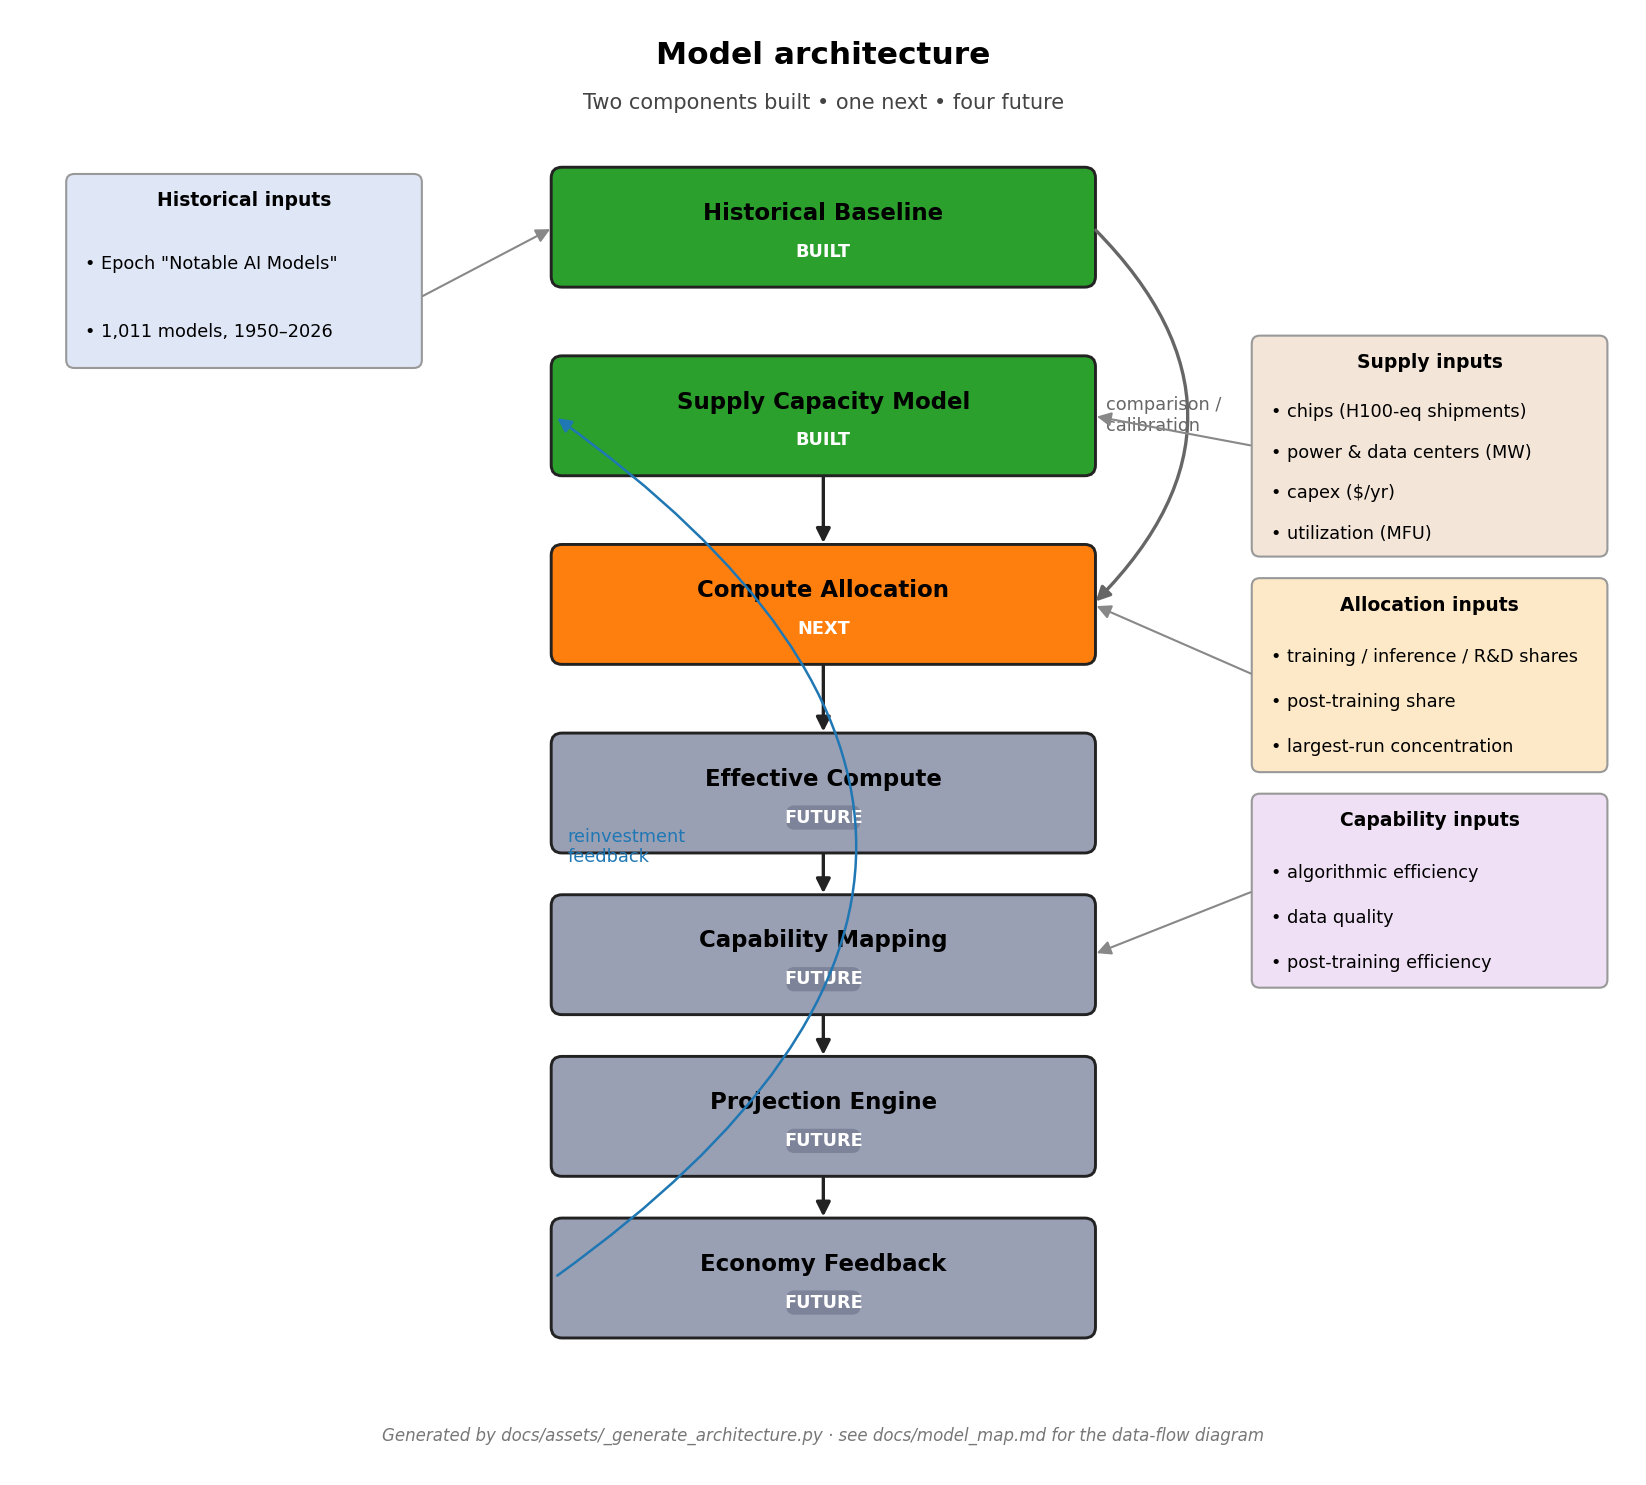
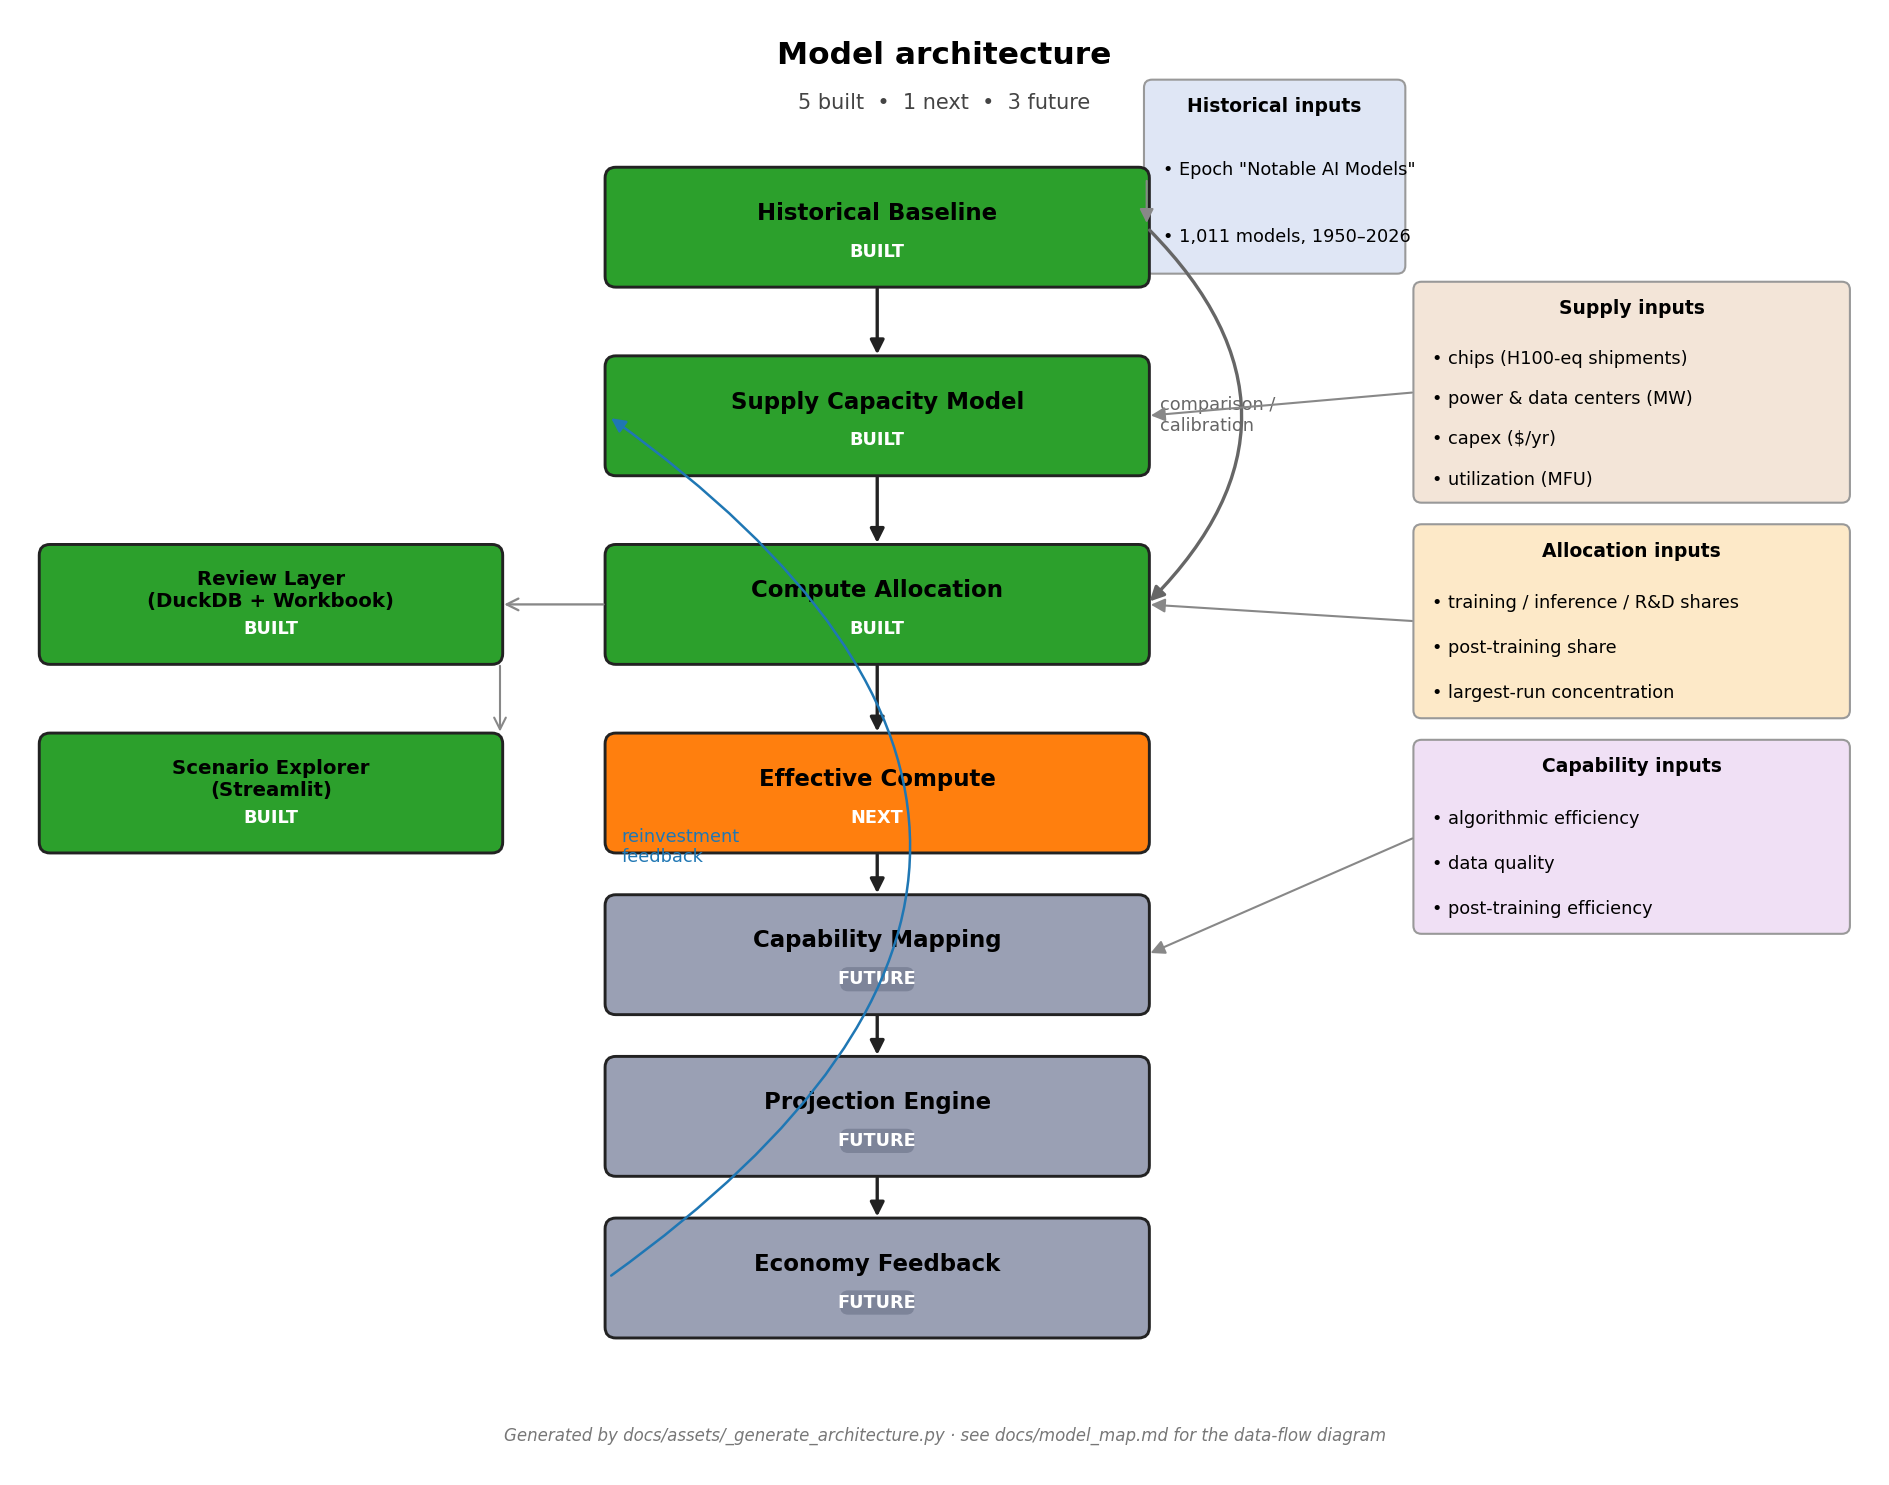
Docs polish 1/3: regenerate architecture PNG with current state
Architecture diagram was 2 model-versions stale: showed Historical +
Supply as built and Allocation as NEXT. Reality: Historical, Supply,
Allocation, Review Layer, and Scenario Explorer are all BUILT;
Effective Compute is now NEXT.

Changes to docs/assets/_generate_architecture.py:
- Component status flags updated (Allocation BUILT, Effective
  Compute NEXT).
- Two new side-branch boxes (Review Layer, Scenario Explorer)
  hanging off the modeling stack at allocation height. Draws an
  arrow from Allocation to Review and from Review to Scenario
  Explorer to indicate the read-only consumption flow.
- Status counts in the subtitle ("N built • N next • N future")
  now derive from the COMPONENTS + SIDE_BRANCHES lists rather
  than being hard-coded — adding a component just requires
  editing the list.
- Single STATUS_FACE / STATUS_PILL_COLOR maps replace the
  hand-coded color args at each call site.
- Slightly wider canvas (xlim 13.4) to accommodate the side
  branches without overlap.

Verify: open docs/assets/model_architecture.png — now shows 5
built / 1 next / 3 future, matching the current state.

README reorganization + MkDocs Material in commits 2/3 and 3/3.

diff --git a/docs/assets/_generate_architecture.py b/docs/assets/_generate_architecture.py
@@ -4,9 +4,11 @@ Standalone matplotlib script. Run with:
 
     uv run python docs/assets/_generate_architecture.py
 
-Produces a polished architecture diagram showing the 7-component model
-stack (2 built, 1 next, 4 future), the major input categories on the
-side, and the calibration arrow from the historical baseline.
+Produces a polished architecture diagram showing the modeling stack
+(7 components — historical through economy feedback) plus two
+observability layers (review + scenario explorer) hanging off as side
+branches. Status pills are kept up to date here; if you add or build a
+component, edit the COMPONENTS list below and rerun.
 """
 from __future__ import annotations
 
@@ -24,33 +26,36 @@ HIST_BG = "#dfe6f5"
 SUPPLY_INPUT_BG = "#f3e5d8"
 ALLOC_INPUT_BG = "#fde9c8"
 CAP_INPUT_BG = "#f0e0f5"
+REVIEW_BG = "#e8f0fa"
+
+STATUS_PILL_COLOR = {"BUILT": "#2ca02c", "NEXT": "#ff7f0e", "FUTURE": "#7d8499"}
+STATUS_FACE = {"BUILT": BUILT, "NEXT": NEXT, "FUTURE": FUTURE}
 
 
-def _box(ax, x, y, w, h, label, color, status_label, status_color, fontsize=11):
+def _box(ax, x, y, w, h, label, status, fontsize=11):
     """Rounded rectangle with a coloured status pill."""
     box = FancyBboxPatch(
         (x, y), w, h,
         boxstyle="round,pad=0.02,rounding_size=0.08",
         linewidth=1.4,
         edgecolor="#222",
-        facecolor=color,
+        facecolor=STATUS_FACE[status],
         zorder=2,
     )
     ax.add_patch(box)
     ax.text(x + w / 2, y + h * 0.62, label,
             ha="center", va="center", fontsize=fontsize, fontweight="bold")
-    # status pill
     pill_w, pill_h = 0.55, 0.18
     pill_x, pill_y = x + w / 2 - pill_w / 2, y + h * 0.18
     pill = FancyBboxPatch(
         (pill_x, pill_y), pill_w, pill_h,
         boxstyle="round,pad=0.0,rounding_size=0.06",
         linewidth=0,
-        facecolor=status_color,
+        facecolor=STATUS_PILL_COLOR[status],
         zorder=3,
     )
     ax.add_patch(pill)
-    ax.text(pill_x + pill_w / 2, pill_y + pill_h / 2, status_label,
+    ax.text(pill_x + pill_w / 2, pill_y + pill_h / 2, status,
             ha="center", va="center", fontsize=8.5, color="white", fontweight="bold")
 
 
@@ -70,13 +75,12 @@ def _arrow(ax, p1, p2, label=None, style="-|>", curve=None, color="#222", linewi
         ax.text(mx + 0.1, my, label, fontsize=8.5, color=color, ha="left", va="center")
 
 
-def _input_panel(ax, x, y, w, h, title, items, bg):
-    """A side panel listing input categories for one component."""
+def _input_panel(ax, x, y, w, h, title, items, bg, *, edge="#999"):
     panel = FancyBboxPatch(
         (x, y), w, h,
         boxstyle="round,pad=0.02,rounding_size=0.06",
         linewidth=1.0,
-        edgecolor="#999",
+        edgecolor=edge,
         facecolor=bg,
         zorder=1,
     )
@@ -89,111 +93,142 @@ def _input_panel(ax, x, y, w, h, title, items, bg):
                 ha="left", va="center", fontsize=8.5)
 
 
+# Modeling stack: (label, y_position, status). Edit here when status changes.
+COMPONENTS = [
+    ("Historical Baseline",     8.6, "BUILT"),
+    ("Supply Capacity Model",   7.2, "BUILT"),
+    ("Compute Allocation",      5.8, "BUILT"),
+    ("Effective Compute",       4.4, "NEXT"),
+    ("Capability Mapping",      3.2, "FUTURE"),
+    ("Projection Engine",       2.0, "FUTURE"),
+    ("Economy Feedback",        0.8, "FUTURE"),
+]
+
+# Observability side branches: (label, y_position, status).
+SIDE_BRANCHES = [
+    ("Review Layer\n(DuckDB + Workbook)",    5.8, "BUILT"),
+    ("Scenario Explorer\n(Streamlit)",       4.4, "BUILT"),
+]
+
+
 def main() -> None:
-    fig, ax = plt.subplots(figsize=(12, 10))
-    ax.set_xlim(0, 12)
+    fig, ax = plt.subplots(figsize=(13, 10))
+    ax.set_xlim(-0.4, 13.4)
     ax.set_ylim(-0.2, 10.6)
     ax.set_aspect("equal")
     ax.axis("off")
 
-    # ---- Component column (center) ----
     comp_x, comp_w, comp_h = 4.0, 4.0, 0.85
-    spacings = [
-        ("Historical Baseline",         8.6, BUILT,  "BUILT",  "#2ca02c"),
-        ("Supply Capacity Model",       7.2, BUILT,  "BUILT",  "#2ca02c"),
-        ("Compute Allocation",          5.8, NEXT,   "NEXT",   "#ff7f0e"),
-        ("Effective Compute",           4.4, FUTURE, "FUTURE", "#7d8499"),
-        ("Capability Mapping",          3.2, FUTURE, "FUTURE", "#7d8499"),
-        ("Projection Engine",           2.0, FUTURE, "FUTURE", "#7d8499"),
-        ("Economy Feedback",            0.8, FUTURE, "FUTURE", "#7d8499"),
-    ]
 
-    for label, y, color, status_label, status_color in spacings:
-        _box(ax, comp_x, y, comp_w, comp_h, label, color, status_label, status_color)
+    # --- main modeling stack -----------------------------------------
+    for label, y, status in COMPONENTS:
+        _box(ax, comp_x, y, comp_w, comp_h, label, status)
 
-    # Vertical down-arrows between consecutive components (skip historical → supply; that's a side arrow)
-    arrow_pairs = [
-        (7.2, 5.8),  # supply → allocation
-        (5.8, 4.4),  # allocation → effective
-        (4.4, 3.2),  # effective → capability
-        (3.2, 2.0),  # capability → projection
-        (2.0, 0.8),  # projection → economy
-    ]
+    # forward arrows between consecutive modeling components
     cx = comp_x + comp_w / 2
-    for y_top, y_bot in arrow_pairs:
+    for i in range(len(COMPONENTS) - 1):
+        _, y_top, _ = COMPONENTS[i]
+        _, y_bot, _ = COMPONENTS[i + 1]
         _arrow(ax, (cx, y_top), (cx, y_bot + comp_h))
 
-    # Historical baseline → comparison/calibration → allocation (curved arrow)
+    # historical → allocation calibration arrow (curved, right side)
+    hist_y = COMPONENTS[0][1]
+    alloc_y = COMPONENTS[2][1]
     _arrow(
         ax,
-        (comp_x + comp_w, 8.6 + comp_h / 2),  # right edge of historical
-        (comp_x + comp_w, 5.8 + comp_h / 2),   # right edge of allocation
+        (comp_x + comp_w, hist_y + comp_h / 2),
+        (comp_x + comp_w, alloc_y + comp_h / 2),
         label="comparison /\ncalibration",
         curve="arc3,rad=-0.5",
         color="#666",
     )
 
-    # Economy feedback → supply capacity (loop-back)
+    # economy feedback → supply (left side, loop-back)
+    supply_y = COMPONENTS[1][1]
+    econ_y = COMPONENTS[-1][1]
     _arrow(
         ax,
-        (comp_x, 0.8 + comp_h / 2),                 # left edge of economy
-        (comp_x, 7.2 + comp_h / 2),                 # left edge of supply
+        (comp_x, econ_y + comp_h / 2),
+        (comp_x, supply_y + comp_h / 2),
         label="reinvestment\nfeedback",
         curve="arc3,rad=0.7",
         color="#1f77b4",
         linewidth=1.2,
     )
 
-    # ---- Input panels on the right side ----
-    panel_x, panel_w = 9.2, 2.6
-    _input_panel(ax, panel_x, 6.6, panel_w, 1.6,
+    # --- review / observability side branches ------------------------
+    side_x, side_w = -0.2, 3.4
+    for label, y, status in SIDE_BRANCHES:
+        _box(ax, side_x, y, side_w, comp_h, label, status, fontsize=9.5)
+
+    # arrows from main-stack components to the side branches
+    review_y = SIDE_BRANCHES[0][1]
+    explorer_y = SIDE_BRANCHES[1][1]
+    _arrow(
+        ax,
+        (comp_x, alloc_y + comp_h / 2),
+        (side_x + side_w, review_y + comp_h / 2),
+        color="#888", linewidth=1.1, style="->",
+    )
+    _arrow(
+        ax,
+        (side_x + side_w, review_y),
+        (side_x + side_w, explorer_y + comp_h),
+        color="#888", linewidth=1.0, style="->",
+    )
+
+    # --- input panels on the right side ------------------------------
+    panel_x, panel_w = 10.0, 3.2
+    _input_panel(ax, panel_x, 7.0, panel_w, 1.6,
                  "Supply inputs",
                  ["chips (H100-eq shipments)",
                   "power & data centers (MW)",
                   "capex ($/yr)",
                   "utilization (MFU)"],
                  SUPPLY_INPUT_BG)
-    _input_panel(ax, panel_x, 5.0, panel_w, 1.4,
+    _input_panel(ax, panel_x, 5.4, panel_w, 1.4,
                  "Allocation inputs",
                  ["training / inference / R&D shares",
                   "post-training share",
                   "largest-run concentration"],
                  ALLOC_INPUT_BG)
-    _input_panel(ax, panel_x, 3.4, panel_w, 1.4,
+    _input_panel(ax, panel_x, 3.8, panel_w, 1.4,
                  "Capability inputs",
                  ["algorithmic efficiency",
                   "data quality",
                   "post-training efficiency"],
                  CAP_INPUT_BG)
 
-    # Connector lines from input panels to their components
-    _arrow(ax, (panel_x, 7.4),
-           (comp_x + comp_w, 7.2 + comp_h / 2),
+    _arrow(ax, (panel_x, 7.8),
+           (comp_x + comp_w, supply_y + comp_h / 2),
            color="#888", linewidth=1.0)
-    _arrow(ax, (panel_x, 5.7),
-           (comp_x + comp_w, 5.8 + comp_h / 2),
+    _arrow(ax, (panel_x, 6.1),
+           (comp_x + comp_w, alloc_y + comp_h / 2),
            color="#888", linewidth=1.0)
-    _arrow(ax, (panel_x, 4.1),
-           (comp_x + comp_w, 3.2 + comp_h / 2),
+    _arrow(ax, (panel_x, 4.5),
+           (comp_x + comp_w, COMPONENTS[4][1] + comp_h / 2),
            color="#888", linewidth=1.0)
 
-    # ---- Historical baseline input panel (left side) ----
-    _input_panel(ax, 0.4, 8.0, panel_w, 1.4,
+    # historical inputs panel (top left)
+    _input_panel(ax, 8.0, 8.7, 1.9, 1.4,
                  "Historical inputs",
                  ["Epoch \"Notable AI Models\"",
                   "1,011 models, 1950–2026"],
                  HIST_BG)
-    _arrow(ax, (0.4 + panel_w, 8.5),
-           (comp_x, 8.6 + comp_h / 2),
+    _arrow(ax, (8.0, 9.4),
+           (comp_x + comp_w, hist_y + comp_h / 2),
            color="#888", linewidth=1.0)
 
-    # ---- Title and footer ----
-    ax.text(6.0, 10.30, "Model architecture",
+    # title + footer
+    n_built = sum(1 for *_, s in COMPONENTS + SIDE_BRANCHES if s == "BUILT")
+    n_next = sum(1 for *_, s in COMPONENTS + SIDE_BRANCHES if s == "NEXT")
+    n_future = sum(1 for *_, s in COMPONENTS + SIDE_BRANCHES if s == "FUTURE")
+    ax.text(6.5, 10.30, "Model architecture",
             ha="center", va="center", fontsize=15, fontweight="bold")
-    ax.text(6.0, 9.95,
-            "Two components built • one next • four future",
+    ax.text(6.5, 9.95,
+            f"{n_built} built  •  {n_next} next  •  {n_future} future",
             ha="center", va="center", fontsize=10, color="#444")
-    ax.text(6.0, 0.05,
+    ax.text(6.5, 0.05,
             "Generated by docs/assets/_generate_architecture.py · "
             "see docs/model_map.md for the data-flow diagram",
             ha="center", va="center", fontsize=8, color="#777", style="italic")
